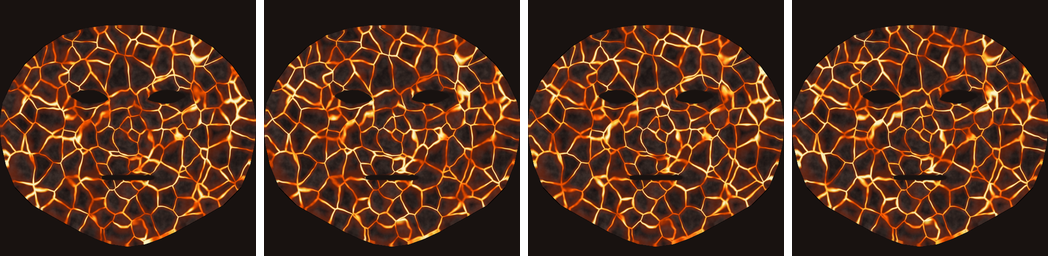
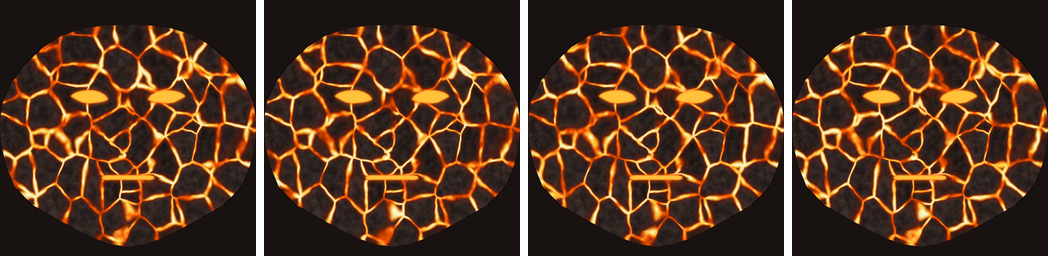
mejoras al diseño

diff --git a/js/mask.js b/js/mask.js
@@ -56,7 +56,6 @@ const fragmentShader = /* glsl */ `
   uniform float uInset;   // margen dentro de cada cuadro (evita mezclar con el vecino)
   uniform float uGlow;    // 1 normal, sube con la erupción
   uniform float uHeat;    // 0..1, lleva la lava hacia amarillo-blanco
-  uniform float uCover;   // 1 = ignora la transparencia de ojos y boca (lava debajo)
   varying vec2 vUv;
 
   // UV dentro de la sprite sheet. El cuadro 0 está arriba a la izquierda.
@@ -82,11 +81,8 @@ const fragmentShader = /* glsl */ `
     vec3 hot = mix(vec3(1.0, 0.72, 0.16), vec3(1.0, 0.96, 0.82), core) * max(1.0, uGlow);
     rgb = mix(rgb, hot, uHeat * core);
 
-    // Toda la malla cae dentro de la isla UV; los únicos huecos son ojos y boca,
-    // y debajo de ellos el bake también tiene lava.
-    float alpha = max(c.a, uCover);
-    if (alpha < 0.01) discard;
-    gl_FragColor = vec4(rgb, alpha);
+    if (c.a < 0.01) discard;
+    gl_FragColor = vec4(rgb, c.a);
     #include <colorspace_fragment>
   }
 `;
@@ -122,7 +118,6 @@ export async function createMask(scene, sheet) {
     uInset: { value: 0.5 / frameSize },
     uGlow: { value: 1 },
     uHeat: { value: 0 },
-    uCover: { value: CONFIG.MASK_COVER_EYES_MOUTH ? 1 : 0 },
   };
 
   const material = new THREE.ShaderMaterial({

diff --git a/js/config.js b/js/config.js
@@ -14,8 +14,8 @@ export const CONFIG = {
   SHEET_FRAMES: 16,
   MASK_FPS: 8,
   MASK_BLEND: true,          // funde cada cuadro con el siguiente (flujo suave a 8 fps)
-  // true = ojos y boca también cubiertos de lava (la spec pide que se vean: false).
-  MASK_COVER_EYES_MOUTH: false,
+  // Ojos y boca: rellenos de lava o transparentes se decide en blender/02_lava_frames.py
+  // (EYES_MOUTH); el shader solo respeta el alfa de la sprite sheet.
 
   // --- Corona de flamas alrededor de la cara (alturas en "altos de cara") ---
   FLAMES: {

diff --git a/blender/02_lava_frames.py b/blender/02_lava_frames.py
@@ -14,7 +14,8 @@ Flujo:
      ColorRamp + Emission = lava.
   4. Por cada cuadro mueve el ruido del flujo en un círculo (cos/sin de la fase) y modula el
      brillo con sin(2·fase): el último cuadro empata con el primero, el loop no salta.
-  5. Hornea la emisión a una imagen en espacio UV (Cycles) y aplica alfa = 0 en ojos y boca.
+  5. Hornea la emisión a una imagen en espacio UV (Cycles) y rellena ojos y boca con lava
+     fundida (o los deja transparentes con EYES_MOUTH = "transparent").
 """
 import math
 import os
@@ -44,9 +45,10 @@ COLORS = {
     "lava_core": "#ffd23f",
     "lava_white": "#fff4c2",
 }
-CRACK_SCALE = 0.55        # grietas principales (celdas por unidad de la malla, ~15 de ancho)
-FINE_CRACK_SCALE = 1.35   # grietas finas, solo en zonas intensas
-CRACK_WIDTH = (0.035, 0.085)  # ancho mínimo/máximo (varía a lo largo de la grieta)
+CRACK_SCALE = 0.36        # grietas principales (celdas por unidad de la malla, ~15 de ancho;
+                          # menos = placas de roca más grandes)
+FINE_CRACK_SCALE = 0.85   # grietas finas, solo en zonas intensas
+CRACK_WIDTH = (0.05, 0.11)  # ancho mínimo/máximo, relativo a la celda (varía a lo largo de la grieta)
 FLOW_RADIUS = 1.6         # cuánto se desplaza el ruido del flujo en un loop
 FLOW_SCALE = 0.6          # tamaño de los "pulsos" de lava que recorren las grietas
 FLOW_CONTRAST = (0.2, 1.45)  # energía mínima/máxima de la lava a lo largo de la grieta
@@ -61,7 +63,13 @@ HOT_SPOTS = [
     ((4.9, -0.6), 2.0),     # pómulo izquierdo
 ]
 
-# Transparencia de ojos y boca (px a resolución de bake).
+# Ojos y boca: "lava" = rellenos de lava fundida (no se ven los reales),
+#               "transparent" = alfa 0 (se ven los ojos y la boca reales).
+EYES_MOUTH = "lava"
+FILL_CENTER = "#ffc23a"   # centro del relleno (amarillo-naranja)
+FILL_EDGE = "#ff5a00"     # borde del relleno (naranja de la lava)
+
+# Zonas de ojos y boca (px a resolución de bake).
 EYE_GROW = 3
 MOUTH_GROW = 7
 HOLE_FEATHER = 2
@@ -235,12 +243,12 @@ def build_material(obj, bake_image):
     g.link(plate, plate_r.inputs[0])
     plate_shade = g.math("MULTIPLY_ADD", plate_r.outputs[0], 0.55, 0.7)
     rock = g.mix("MULTIPLY", rock, plate_shade)
-    charred = g.smoothstep(d_main, 0.0, g.math("MULTIPLY", width, 3.0), 0.35, 1.0)
+    charred = g.smoothstep(d_main, 0.0, g.math("MULTIPLY", width, 2.4), 0.35, 1.0)
     rock = g.mix("MULTIPLY", rock, charred)
 
     # Resplandor naranja sobre la roca alrededor de las grietas.
-    halo = g.smoothstep(d_main, 0.0, g.math("MULTIPLY", width, 4.5), 1.0, 0.0)
-    halo = g.math("MULTIPLY", halo, g.math("MULTIPLY_ADD", heat, 0.25, 0.12))
+    halo = g.smoothstep(d_main, 0.0, g.math("MULTIPLY", width, 2.6), 1.0, 0.0)
+    halo = g.math("MULTIPLY", halo, g.math("MULTIPLY_ADD", heat, 0.2, 0.08))
     halo = g.math("MULTIPLY", halo, pulse.outputs[0])
     rock = g.mix("ADD", rock, uvlib.srgb_hex_to_linear(COLORS["lava"]), halo)
 
@@ -272,20 +280,41 @@ def build_material(obj, bake_image):
     return flow_offset, pulse
 
 
-# ---------------------------------------------------------------- transparencia
+# ---------------------------------------------------------------- ojos y boca
 
-def build_alpha(n, uvs, tri):
-    """Alfa en espacio UV: 1 en la cara, 0 en ojos/boca y fuera de la malla."""
+def build_masks(n, uvs, tri):
+    """Máscaras en espacio UV.
+
+    island: 1 dentro de la malla (más un margen), 0 fuera.
+    holes:  0..1, zonas de ojos y boca con borde suave.
+    core:   0..1, qué tan al centro de esas zonas está cada píxel (para el degradado).
+
+    La boca de la malla canónica está cerrada (una franja de ~2 px en UV) y al abrirla los
+    triángulos se estiran sobre esa franja; por eso se agranda varios píxeles.
+    """
     island = uvlib.dilate(uvlib.fill_triangles(n, uvs[tri]), ISLAND_MARGIN)
-    holes = np.zeros((n, n), dtype=bool)
+    hard = np.zeros((n, n), dtype=bool)
     for contour, grow in ((uvlib.EYE_RIGHT, EYE_GROW), (uvlib.EYE_LEFT, EYE_GROW),
                           (uvlib.MOUTH_INNER, MOUTH_GROW)):
         poly = uvs[contour]
         region = uvlib.fill_polygon(n, poly) | uvlib.draw_polyline(n, poly)
-        holes |= uvlib.dilate(region, grow)
-    soft_holes = np.clip(uvlib.blur(holes, HOLE_FEATHER) * 1.6, 0, 1)
-    soft_holes = np.maximum(soft_holes, holes)
-    return island.astype(np.float32) * (1.0 - soft_holes)
+        hard |= uvlib.dilate(region, grow)
+    holes = np.maximum(np.clip(uvlib.blur(hard, HOLE_FEATHER) * 1.6, 0, 1), hard)
+    core = np.clip(uvlib.blur(hard, 4) * 1.4 - 0.2, 0, 1) ** 1.5
+    glow = np.clip(uvlib.blur(hard, 9) * 1.8, 0, 1) * (1.0 - holes)  # resplandor alrededor
+    return island.astype(np.float32), holes, core, glow
+
+
+def fill_eyes_mouth(rgb, holes, core, glow, phase):
+    """Rellena ojos y boca con lava fundida lisa (se estira bien cuando la boca se abre)
+    y les da un resplandor naranja alrededor, como pozos de lava encendida."""
+    beat = 1.0 + 0.5 * PULSE * math.sin(2 * phase)  # late junto con las grietas
+    center = np.array(uvlib.srgb_hex_to_linear(FILL_CENTER)[:3])
+    edge = np.array(uvlib.srgb_hex_to_linear(FILL_EDGE)[:3])
+    fill = uvlib.linear_to_srgb((edge + (center - edge) * core[..., None]) * beat)
+    halo = uvlib.linear_to_srgb(edge * beat)
+    rgb = rgb + (halo - rgb) * (glow[..., None] * 0.55)
+    return rgb * (1.0 - holes[..., None]) + fill * holes[..., None]
 
 
 # ---------------------------------------------------------------- main
@@ -318,7 +347,8 @@ def main():
     bake_n = SIZE * SUPERSAMPLE
     bake_img = bpy.data.images.new("bake", bake_n, bake_n, alpha=True, float_buffer=True)
     flow_offset, pulse = build_material(obj, bake_img)
-    alpha = build_alpha(bake_n, uvs, tri)
+    island, holes, core, glow = build_masks(bake_n, uvs, tri)
+    alpha = island * (1.0 - holes) if EYES_MOUTH == "transparent" else island
 
     for f in range(FRAMES):
         phase = 2 * math.pi * f / FRAMES
@@ -331,7 +361,10 @@ def main():
         px = np.empty(bake_n * bake_n * 4, dtype=np.float32)
         bake_img.pixels.foreach_get(px)
         px = px.reshape(bake_n, bake_n, 4)
-        rgba = np.dstack([uvlib.linear_to_srgb(px[..., :3]), alpha])
+        rgb = uvlib.linear_to_srgb(px[..., :3])
+        if EYES_MOUTH == "lava":
+            rgb = fill_eyes_mouth(rgb, holes, core, glow, phase)
+        rgba = np.dstack([rgb, alpha])
         rgba = downsample(rgba, SUPERSAMPLE)
 
         path = os.path.join(OUT_DIR, f"frame_{f:02d}.png")

diff --git a/README.md b/README.md
@@ -71,7 +71,8 @@ diseñar.
 
 ### 2. Material procedural y bake — `blender/02_lava_frames.py`
 
-- **Grietas:** Voronoi (distancia a borde) deformado con ruido, con ancho variable.
+- **Grietas:** Voronoi (distancia a borde) deformado con ruido: placas de roca grandes y
+  ríos de lava gruesos de ancho variable.
   Alrededor de **ojos, frente y pómulos** hay una segunda red de grietas más fina y más brillo.
 - **Roca:** Noise oscuro (`#1a1414` – `#3a2e2a`), placas con tono propio y bordes chamuscados.
 - **Lava:** ColorRamp + Emission: rojo profundo → naranja `#ff5a00` → amarillo `#ffd23f` →
@@ -79,8 +80,12 @@ diseñar.
 - **Animación:** el ruido que recorre las grietas se desplaza en un círculo (seno y coseno de
   la fase) y el brillo late con `sin(2·fase)`, así que el **cuadro 16 empata con el 1**:
   el loop no salta.
-- **Bake:** Cycles hornea la emisión de cada cuadro a la UV. Después se aplica
-  **alfa = 0 en ojos y boca** a partir de los contornos de MediaPipe.
+- **Bake:** Cycles hornea la emisión de cada cuadro a la UV.
+- **Ojos y boca:** a partir de los contornos de MediaPipe se rellenan con **lava fundida**
+  (amarillo al centro, naranja al borde, con resplandor alrededor) que late con el resto.
+  Es un color liso a propósito: la boca de la malla canónica está cerrada y, al abrirla, sus
+  triángulos se estiran; un relleno liso se sigue viendo bien estirado. Con
+  `EYES_MOUTH = "transparent"` en el script se dejan transparentes para ver los reales.
 
 Resultado: 16 cuadros de 512×512. Aquí van 4 de ellos:
 
@@ -88,7 +93,7 @@ Resultado: 16 cuadros de 512×512. Aquí van 4 de ellos:
 
 ### 3. Sprite sheet — `blender/03_build_sheet.py`
 
-Los 16 cuadros se unen en una cuadrícula de 4×4 (2048×2048, PNG con transparencia, 3.9 MB).
+Los 16 cuadros se unen en una cuadrícula de 4×4 (2048×2048, PNG con transparencia, 3.1 MB).
 En el filtro, un shader avanza los cuadros a 8 fps y funde cada uno con el siguiente para que
 el flujo se vea suave.
 
@@ -141,7 +146,8 @@ python blender/04_ember.py                                                  # br
 ```
 
 El diseño se ajusta con las constantes al inicio de `02_lava_frames.py` (`COLORS`,
-`CRACK_SCALE`, `CRACK_WIDTH`, `FLOW_CONTRAST`, `PULSE`, `HOT_SPOTS`…).
+`CRACK_SCALE` (tamaño de las placas), `CRACK_WIDTH` (grosor de los ríos de lava),
+`FLOW_CONTRAST`, `PULSE`, `HOT_SPOTS`, `EYES_MOUTH`…).
 
 ### Ajustes del filtro
 
